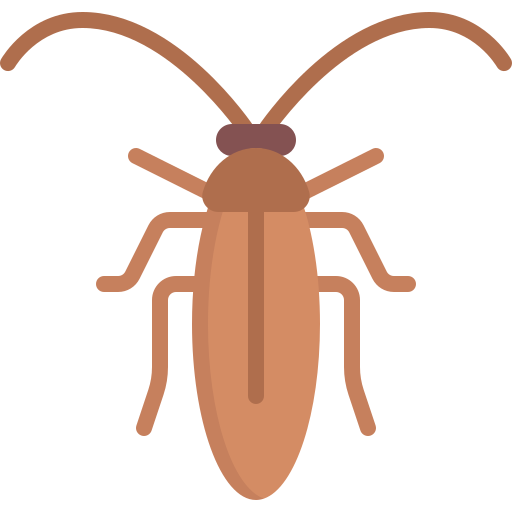
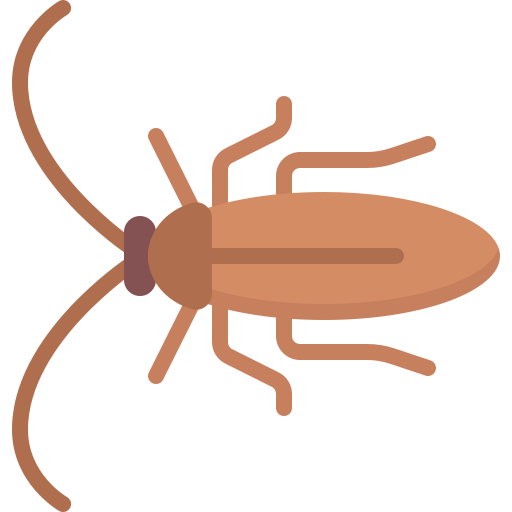
nuevo fondo

Changed region(s): [[0.0, 0.0, 1.0, 1.0]]

diff --git a/nonmouse/juego4.py b/nonmouse/juego4.py
@@ -145,8 +145,8 @@ def logicaJuego4(game_frame):
 
     #Fondo
     base_dir = os.path.dirname(os.path.abspath(__file__)) #Obtiene la direccion actual
-    ruta_fondo = os.path.join(base_dir, "..", "images", "juego4", "fondo.jpg")
-    fondo = cargar_imagen(ruta_fondo, altura=1200)
+    ruta_fondo = os.path.join(base_dir, "..", "images", "juego4", "fondo.png")
+    fondo = cargar_imagen(ruta_fondo, altura=955)
     
     if fondo:
         label_fondo = tk.Label(game_frame, image=fondo)
